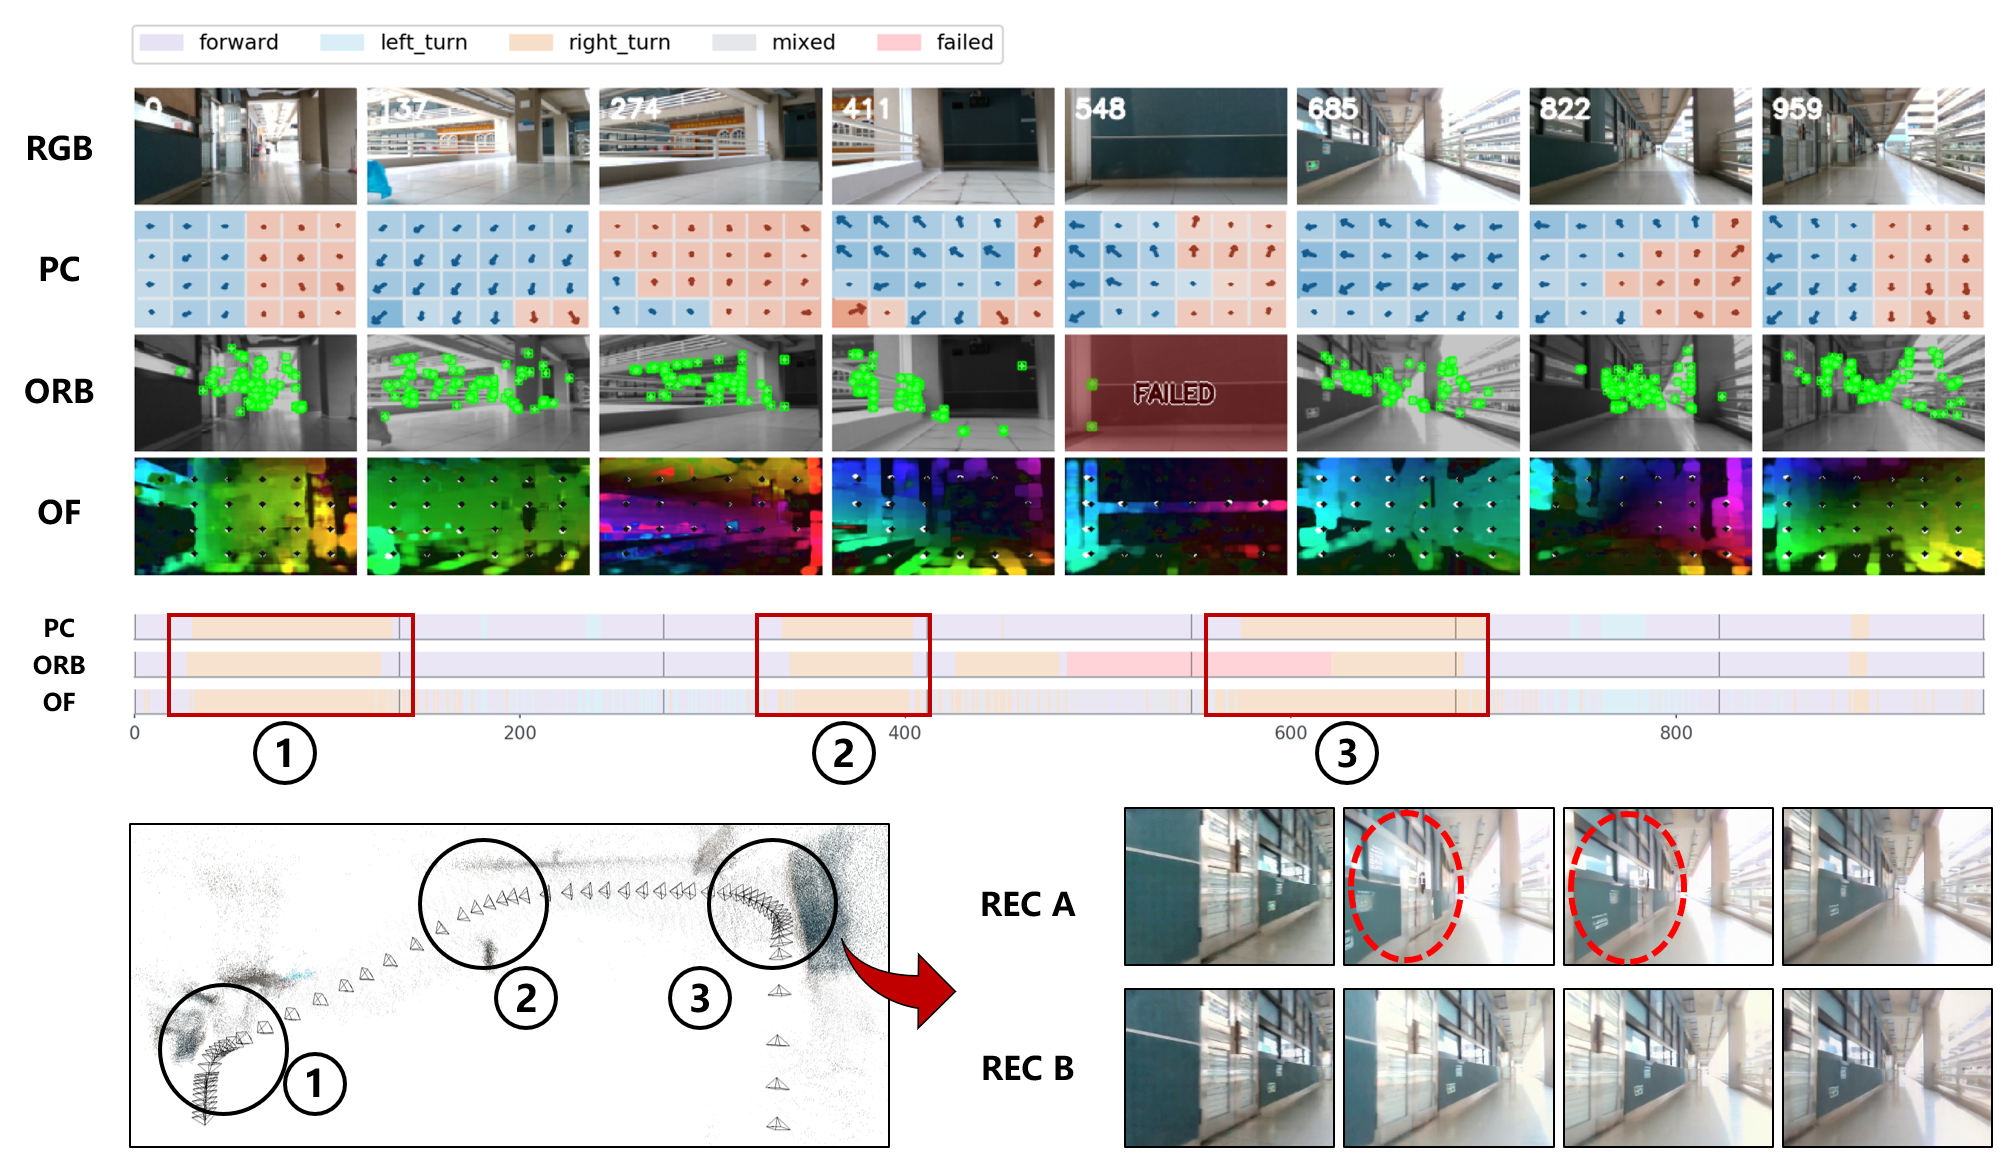
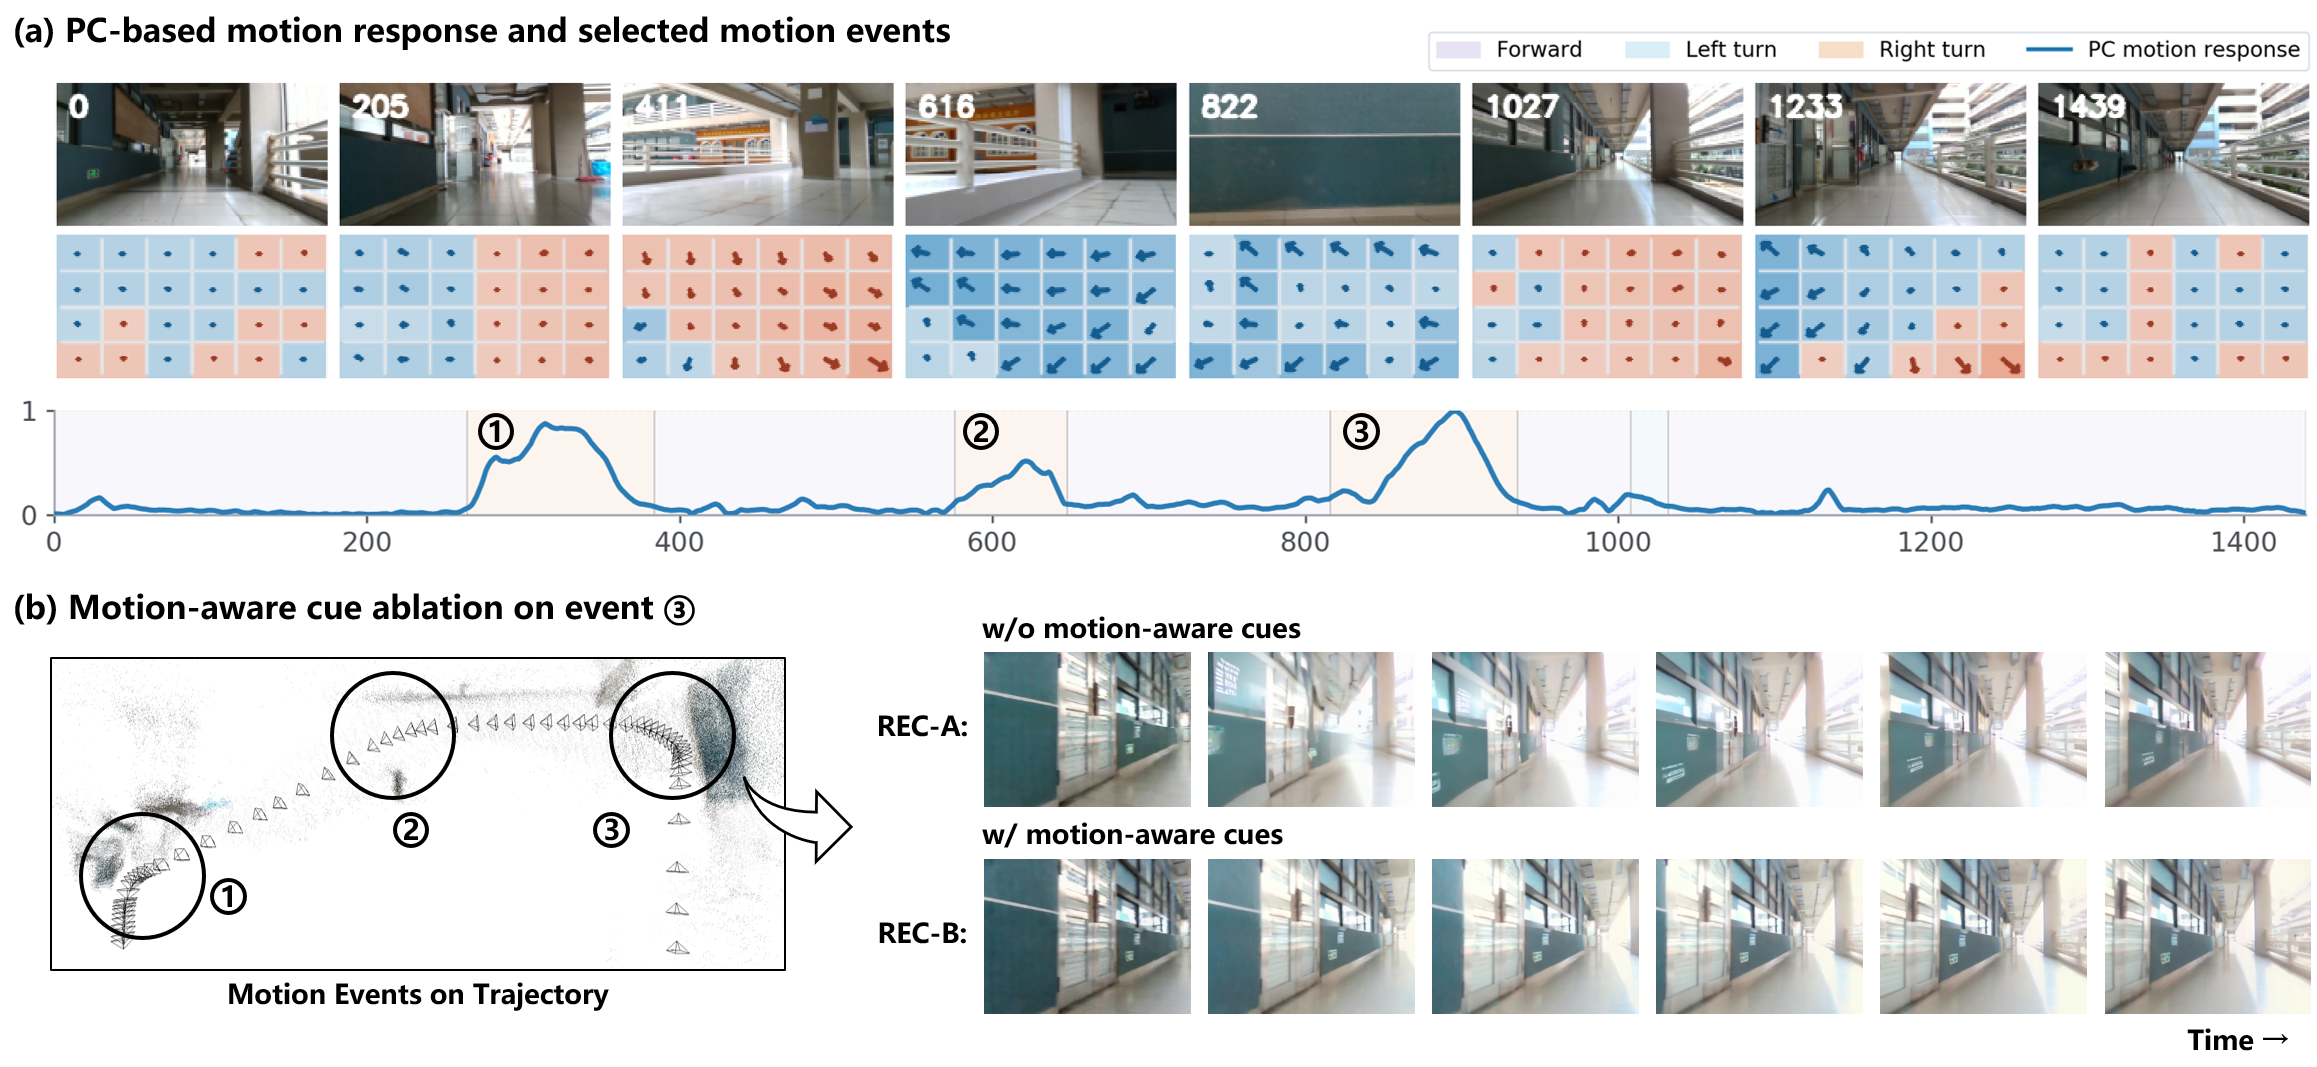
Polish Fig. 8 motion overview and cue ablation text

diff --git a/exphub/encode/motion_segment.py b/exphub/encode/motion_segment.py
@@ -1285,8 +1285,8 @@ def _plot_motion_overview(path, frames, grays, pair_states, motion_states, num_f
             "savefig.facecolor": "white",
         }
     )
-    fig = plt.figure(figsize=(13.5, 4.7), constrained_layout=False, facecolor="white")
-    grid = fig.add_gridspec(2, 1, height_ratios=[2.55, 1.15])
+    fig = plt.figure(figsize=(13.5, 4.0), constrained_layout=False, facecolor="white")
+    grid = fig.add_gridspec(2, 1, height_ratios=[2.55, 0.60])
     ax0 = fig.add_subplot(grid[0, 0])
     ax1 = fig.add_subplot(grid[1, 0])
 
@@ -1298,11 +1298,9 @@ def _plot_motion_overview(path, frames, grays, pair_states, motion_states, num_f
     ax0.axis("off")
     ax0.text(-0.010, 0.745, "RGB", transform=ax0.transAxes, ha="right", va="center", fontsize=10.5, fontweight="bold", color="#4A4F55")
     ax0.text(-0.010, 0.255, "PC", transform=ax0.transAxes, ha="right", va="center", fontsize=10.5, fontweight="bold", color="#4A4F55")
-    ax0.set_title("Motion Overview Samples", pad=8, loc="left", fontsize=12, fontweight="bold")
 
     x = np.arange(len(pair_states))
     steering = _normalize01(np.abs([float(row.get("steering_response", 0.0) or 0.0) for row in pair_states]))
-    forward = _normalize01([float(row.get("forward_score", row.get("forward_response", 0.0)) or 0.0) for row in pair_states])
     state_labels = ["mixed" for _ in range(len(pair_states))]
     for state in motion_states:
         label = str(state.get("motion_label", "forward") or "forward")
@@ -1310,33 +1308,43 @@ def _plot_motion_overview(path, frames, grays, pair_states, motion_states, num_f
         end = min(len(pair_states) - 1, int(state.get("end_idx", start) or start) - 1)
         if end >= start:
             state_labels[start : end + 1] = [label for _ in range(end - start + 1)]
-    _plot_background(ax1, state_labels, 0, MOTION_COLORS, 0.42)
+    current = state_labels[0]
+    start = 0
+    for idx in range(1, len(state_labels)):
+        if state_labels[idx] != current:
+            color = MOTION_COLORS.get(current)
+            if color:
+                ax1.axvspan(start, idx, color=color, alpha=0.28, lw=0, zorder=0)
+            current = state_labels[idx]
+            start = idx
+    color = MOTION_COLORS.get(current)
+    if color:
+        ax1.axvspan(start, len(state_labels) - 1, color=color, alpha=0.28, lw=0, zorder=0)
     for state in motion_states:
         start = int(state.get("start_idx", 0) or 0)
-        ax1.axvline(start, color="#333333", linewidth=0.75, alpha=0.35)
-    ax1.axvline(int(motion_states[-1].get("end_idx", x_max)), color="#333333", linewidth=0.75, alpha=0.35)
-    ax1.plot(x, steering, color=PC_LINE_COLOR, linewidth=2.0, alpha=0.95, label="PC normalized yaw")
-    ax1.plot(x, forward, color=PC_LINE_COLOR, linewidth=1.7, alpha=0.72, linestyle="--", label="PC normalized expansion")
-    ax1.set_ylim(-0.05, 1.05)
-    ax1.set_title("Phase Correlation Motion Responses", pad=5, loc="left")
+        ax1.axvline(start, color="#333333", linewidth=0.6, alpha=0.25, zorder=2)
+    ax1.axvline(int(motion_states[-1].get("end_idx", x_max)), color="#333333", linewidth=0.6, alpha=0.25, zorder=2)
+    ax1.plot(x, steering, color=PC_LINE_COLOR, linewidth=2.0, alpha=0.95, label="PC motion response", zorder=3)
+    ax1.set_ylim(0.0, 1.0)
+    ax1.set_yticks([0, 1])
     _style_axis(ax1, "Response")
     ax1.set_xlabel("Frame / Pair Index", labelpad=8)
     ax1.set_xlim(0, x_max)
     ax1.margins(x=0)
 
-    handles = [Patch(color=MOTION_COLORS[label], label=label) for label in MAIN_MOTION_LABELS]
+    display_labels = {"forward": "Forward", "left_turn": "Left turn", "right_turn": "Right turn"}
+    handles = [Patch(color=MOTION_COLORS[label], label=display_labels[label]) for label in MAIN_MOTION_LABELS]
     handles += [
-        Line2D([0], [0], color=PC_LINE_COLOR, lw=2.0, label="PC normalized yaw"),
-        Line2D([0], [0], color=PC_LINE_COLOR, lw=1.7, linestyle="--", label="PC normalized expansion"),
+        Line2D([0], [0], color=PC_LINE_COLOR, lw=2.0, label="PC motion response"),
     ]
-    legend = fig.legend(handles=handles, loc="upper center", ncol=5, bbox_to_anchor=(0.5, 0.975), frameon=True)
+    legend = fig.legend(handles=handles, loc="upper center", ncol=4, bbox_to_anchor=(0.5, 0.975), frameon=True)
     frame = legend.get_frame()
     frame.set_facecolor("white")
     frame.set_alpha(0.96)
     frame.set_edgecolor("#D8DDE3")
     frame.set_linewidth(0.8)
     fig.align_ylabels([ax1])
-    fig.subplots_adjust(left=0.075, right=0.985, top=0.84, bottom=0.12, hspace=0.10)
+    fig.subplots_adjust(left=0.075, right=0.985, top=0.895, bottom=0.12, hspace=0.08)
     plt.savefig(str(path), dpi=230, facecolor="white", transparent=False)
     plt.close(fig)
     return True

diff --git a/paper/overleaf/sections/04_experiments.tex b/paper/overleaf/sections/04_experiments.tex
@@ -74,7 +74,7 @@ Table~\ref{tab:motion_benchmark} summarizes the benchmark on the 40 s GDUT clip.
 \begin{figure*}[!t]
 \centering
 \includegraphics[width=\textwidth]{figures/fig8.png}
-\caption{Edge-side motion estimation comparison for VLMem event encoding. PC provides lightweight coarse motion-response evidence, ORB reflects feature-tracking reliability, and Farneback optical flow provides dense but more expensive motion cues. The colored temporal bands mark three right-turn intervals, and the lower-right comparison illustrates the effect of motion-aware language cues on right-turn reconstruction.}
+\caption{PC-based motion-event identification and motion-aware cue ablation. Panel (a) shows representative RGB samples, block-level PC motion patterns, and the corresponding compact PC motion-response curve used to identify motion events. The shaded regions indicate the recognized motion states, and the numbered peaks mark selected motion events that are also localized on the trajectory-map reference in panel (b). Panel (b) compares reconstructed sequences for event~3 without motion-aware cues (REC-A) and with motion-aware cues (REC-B). The frames are ordered from left to right over time. REC-B provides a more motion-consistent temporal viewpoint evolution, whereas REC-A exhibits less stable structural continuity during the selected motion event.}
 \label{fig:motion_benchmark}
 \end{figure*}
 
@@ -82,9 +82,7 @@ PC is used here as a motion-response generator, not as a precise trajectory esti
 
 This comparison reflects the abstraction level required by the encoder. The motion response does not need pixelwise correspondence or dense local motion; it needs low-cost evidence for coarse motion states and event boundaries that can be converted into language cues. ORB is a useful comparison because it is closer to VSLAM front-end feature-tracking evidence, but rapid viewpoint changes, sparse features, blur, or low texture can make its valid response unreliable. OF is useful as a dense-motion reference, but its edge-side computational cost is higher than needed for VLMem event encoding. PC therefore provides the most suitable trade-off in this benchmark for this paper's abstraction level: coarse motion trend, low cost, and robust valid response.
 
-Fig.~\ref{fig:motion_benchmark} provides the corresponding qualitative evidence. The three colored temporal bands indicate three right-turn intervals, and PC consistently captures the turning trends in the shown benchmark. Unlike local feature tracking, PC does not rely on maintaining stable local feature matches, which makes it suitable for robust coarse motion-response evidence when local features are sparse or unstable.
-
-The lower-right REC comparison in Fig.~\ref{fig:motion_benchmark} further illustrates the role of motion-aware language cues. REC-A denotes reconstruction without motion-aware language cues, whereas REC-B uses the full motion--semantic response fusion. Without motion-estimation guidance, reconstruction can produce an implausible intermediate viewpoint during a right turn. With the full motion--semantic response fusion, the reconstructed sequence shows a smoother and more plausible right-turn viewpoint. This example is qualitative evidence for the encoder design, not a general claim about reconstruction accuracy. These results indicate that PC is not used as a precise trajectory estimator, but as a lightweight and robust motion-response generator that matches the abstraction level required by VLMem encoding.
+Table~\ref{tab:motion_benchmark} quantifies the computational tradeoff among PC, ORB feature tracking, and optical flow, while Fig.~\ref{fig:motion_benchmark} illustrates how the selected PC-based response is used inside VLMem encoding. The PC response provides lightweight coarse motion-event evidence rather than accurate camera-trajectory estimation. In Fig.~\ref{fig:motion_benchmark}(a), the numbered response peaks correspond to selected motion events that can be localized along the trajectory-map reference in Fig.~\ref{fig:motion_benchmark}(b), supporting the use of PC as a coarse motion-state segmentation signal. The lower part of Fig.~\ref{fig:motion_benchmark} further examines event~3 through a motion-aware language-cue ablation. REC-A denotes a reconstructed sequence without motion-aware cues, whereas REC-B denotes a reconstructed sequence with motion-aware cues. REC-A shows less stable temporal viewpoint evolution, whereas REC-B preserves a more motion-consistent visual transition during the selected motion event. This result indicates that the motion response is not used as an end in itself, but as a lightweight cue source for constructing motion-aware cues that improve task-usable world-model reconstruction.
 
 \subsection{MGDR Ablation for the World-Model Decoder}
 \label{subsec:lora_ablation}